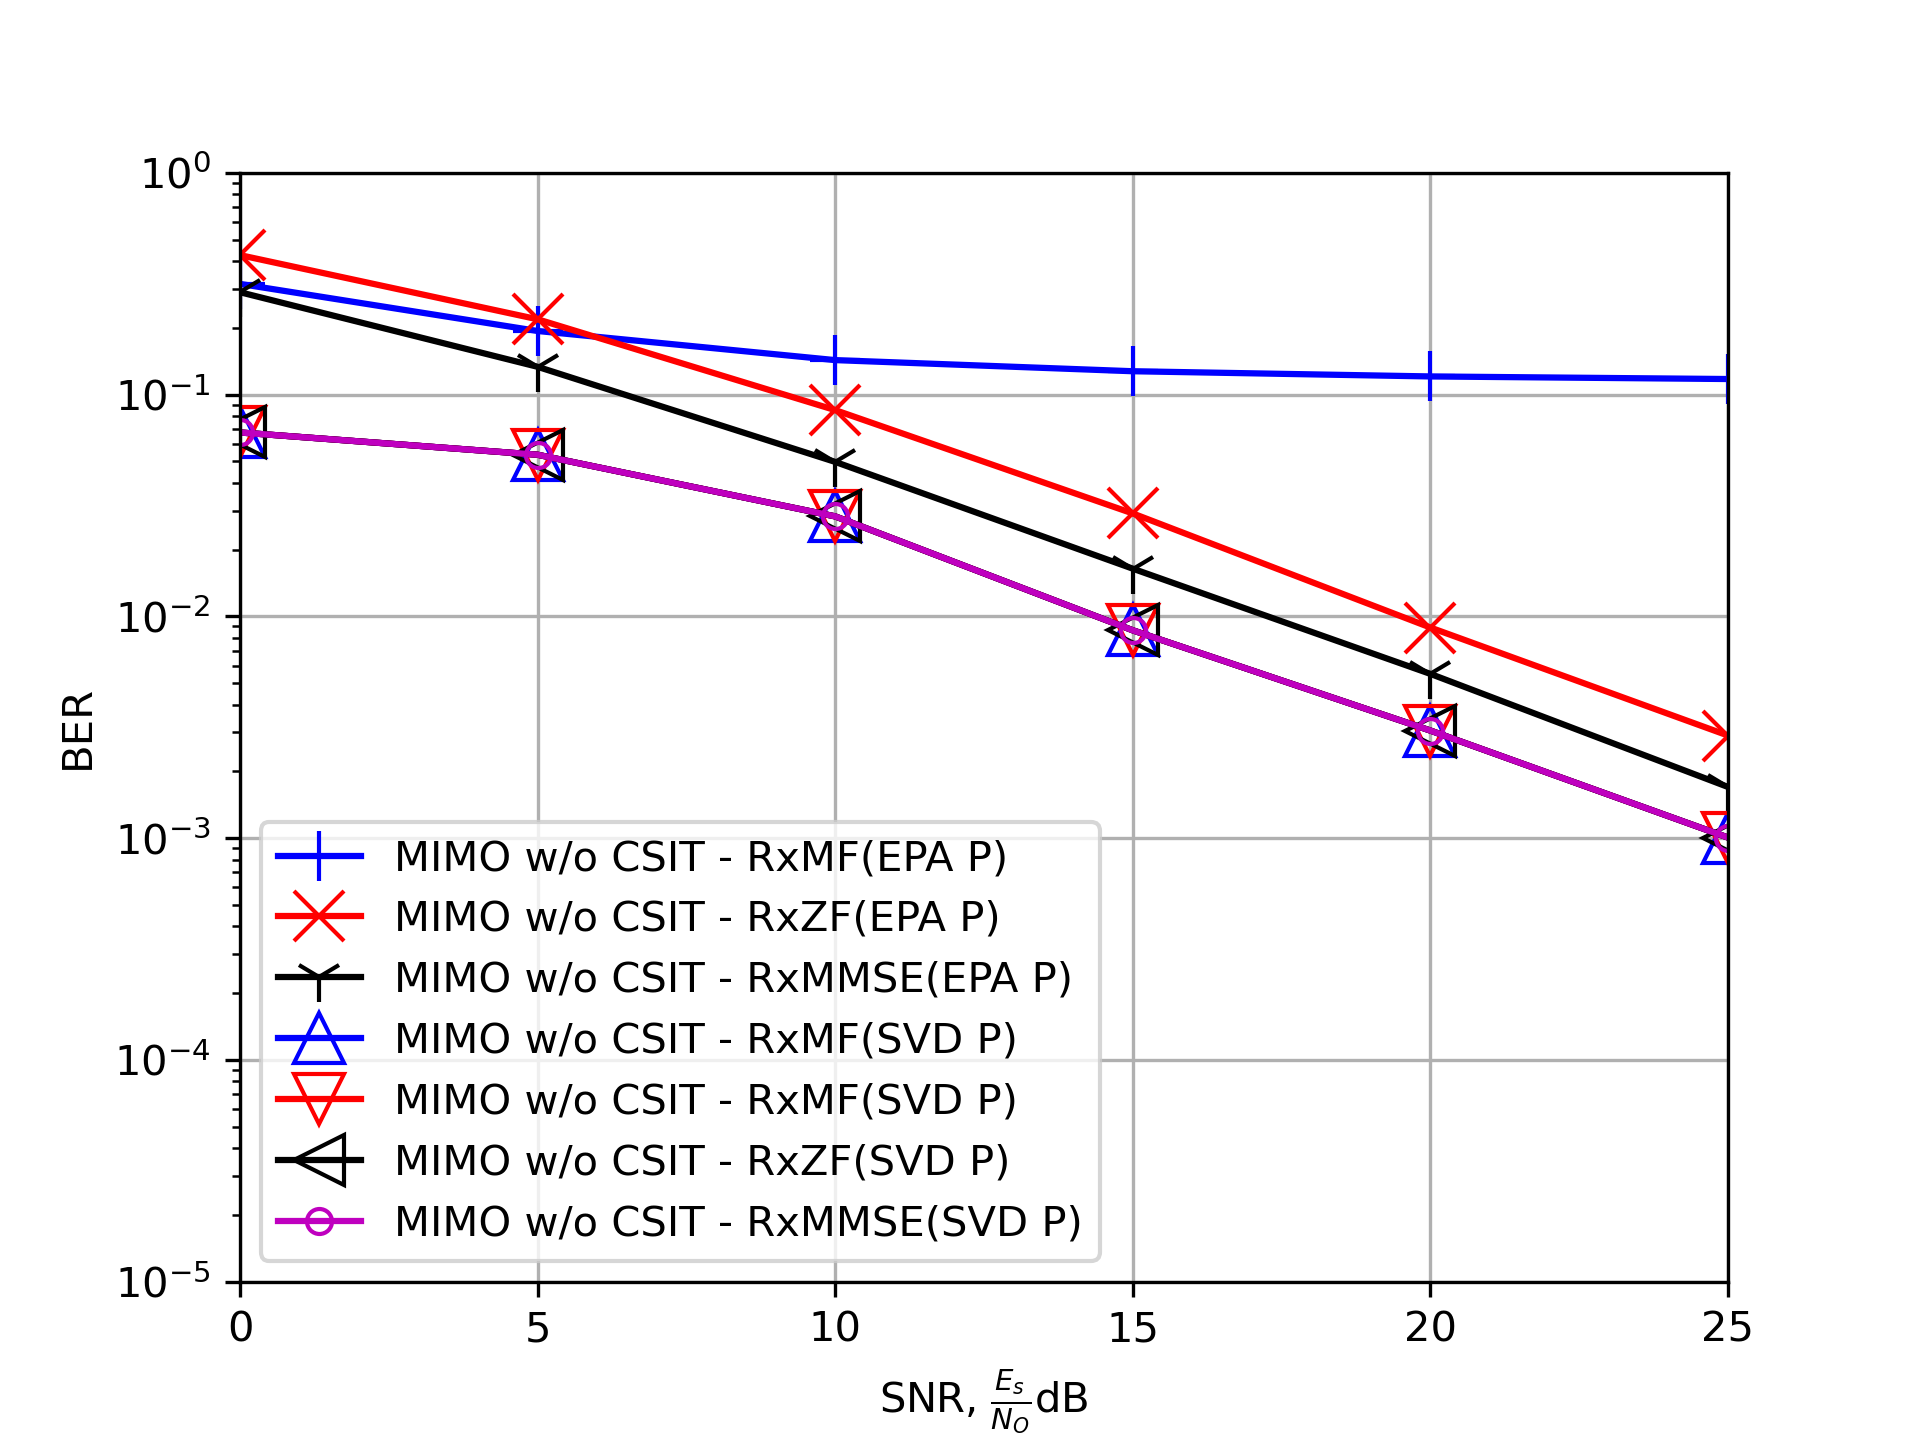
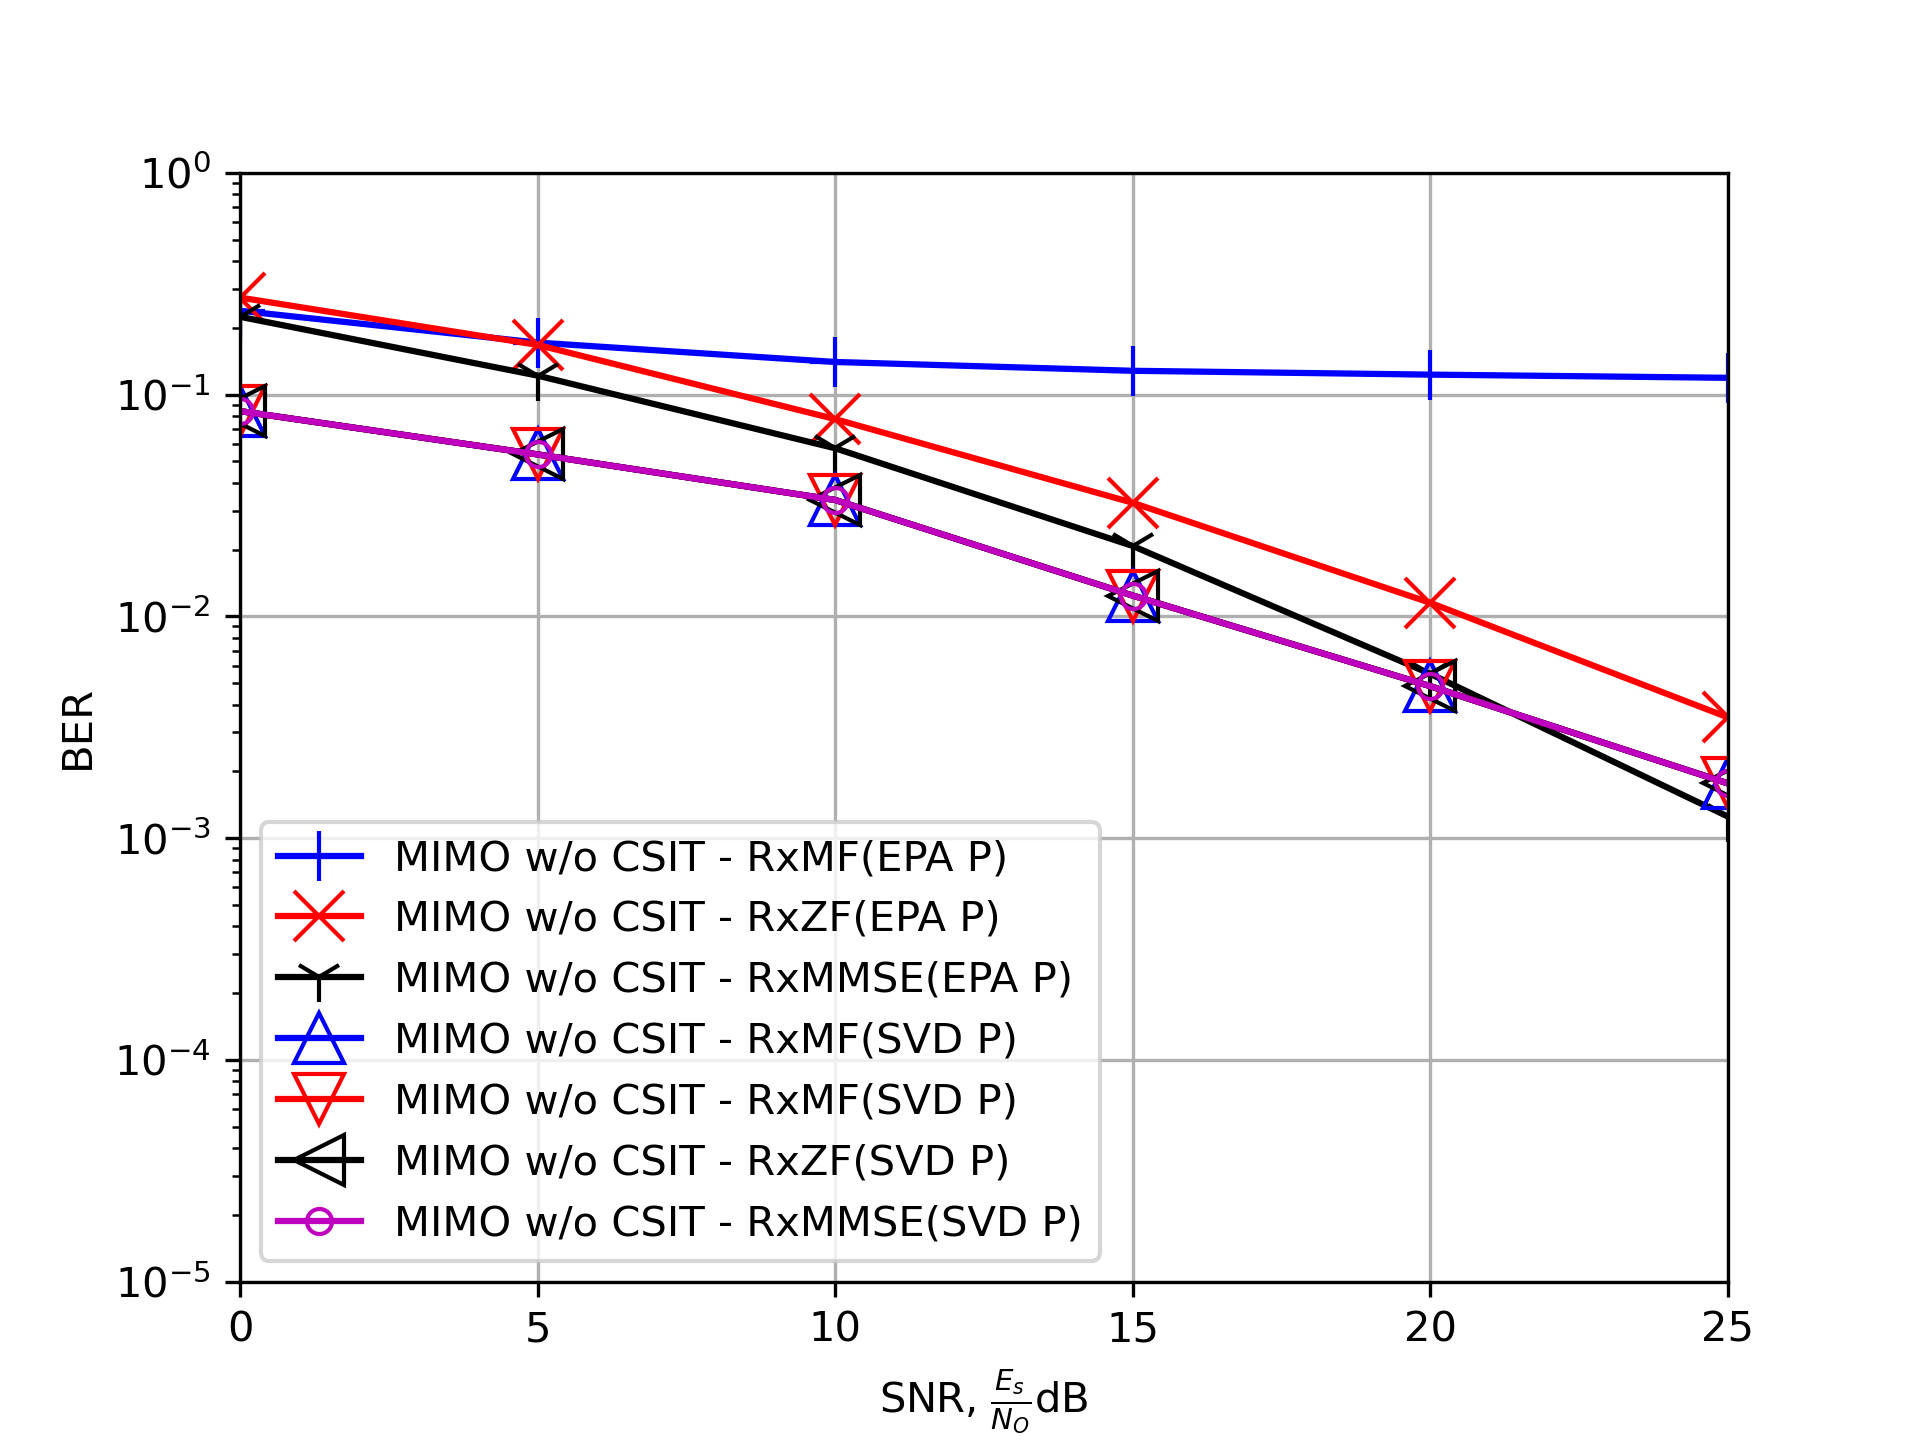
updated

Changed region(s): [[0.125, 0.1562, 0.9062, 0.5938], [0.6875, 0.25, 0.8125, 0.2812], [0.8438, 0.25, 0.875, 0.2812]]

diff --git a/assign_paper_codes/fAlgorithms.py b/assign_paper_codes/fAlgorithms.py
@@ -58,12 +58,25 @@ def myf_algorihtm_1(sys_param, channel):
         #         1 / No_W_unc) * No_W) / (np.abs(h_DW)**2),\
         #                                 P_D_bar
         #                                           ])
-        P_D_ub = np.array([
-              (((np.abs(h_SR)**2 * P_S) / (2**(r_P_bar) - 1) - No_R) * (np.abs(h_DR)**2)),
-          (((np.abs(h_SD)**2 * P_S) / (2**(r_P_bar) - 1) - No_D) / (np.abs(h_DD_tilde)**2)),
-                 ((No_W_unc**(1 - 4 *err_min)-1/No_W_unc)*No_W)/(np.abs(h_DW)**2),
-                                                                                  P_D_bar
-                          ])
+        h_SR_sq_mgn = np.abs(h_SR)**2
+
+        h_DR_sq_mgn = np.abs(h_DR)**2 
+
+        h_SD_sq_mgn = np.abs(h_SD)**2
+
+        h_DD_tilde_sq_mgn = np.abs(h_DD_tilde)
+
+        h_DW_sq_mgn = np.abs(h_DW)**2
+
+        denominator = (2**r_P_bar - 1)
+
+        first_portion = (1/h_DR_sq_mgn) * ((h_SR_sq_mgn * P_S/denominator) - No_R)
+
+        second_portion = (1/h_DD_tilde_sq_mgn) * ((h_SD_sq_mgn * P_S / denominator) - No_D)
+
+        third_portion = (No_W_unc **( 1 - 4 * err_min) - 1/No_W_unc) * (No_W / h_DW_sq_mgn )
+
+        P_D_ub = np.array([first_portion,second_portion,third_portion,P_D_bar])
     
     P_D_opt = max(0,np.amin(P_D_ub))
     

diff --git a/assignment_07/fCalculations.py b/assignment_07/fCalculations.py
@@ -52,7 +52,7 @@ def myf_constellation(sys_param):
 def myf_symbol_indices(sys_param, param_symbol_indices):
 
     Ns = sys_param["Ns"]
-
+    
     constellation_size = sys_param["constellation_size"]
 
     seed_seq = param_symbol_indices["seed_seq"]
@@ -82,7 +82,7 @@ def myf_x_vec(sys_param, constellation,symbol_indices):
 
 
     for ind in range(0,Ns):
-        
+
         x_vec[ind][0] = constellation_symbols[symbol_indices[ind]][0]
 
         
@@ -211,7 +211,7 @@ def myf_C_Pandw(sys_param, channel, P_mat, Ns_opt, solutions):
 
     Nr = sys_param["Nr"]
 
-    NO = sys_param["NO"]\
+    NO = sys_param["NO"]
     
     H_mat = channel["H_mat"]
 
@@ -298,8 +298,6 @@ def myf_Num_errors(sys_param, constellation, solutions, param_Num_errors):
         if(symbol_indices[ind] != symbol_indices_dec[ind]):
 
             Num_errors_symbol = Num_errors_symbol + 1
-
-            Num_errors_bit = Num_errors_bit + 1
 
             Num_errors_bit = Num_errors_bit + np.sum(np.abs(constellation_bits[int(symbol_indices[ind])]\
                             - constellation_bits[int(symbol_indices_dec[ind])]))

diff --git a/assignment_07/Main2.py b/assignment_07/Main2.py
@@ -14,7 +14,8 @@ from fPlot import*
 
 sys_param = myf_sys_param()
 
-Num_samples = 10000
+
+Num_samples = 1000
 
 x_axis_name = "EsoverNO_dB_cand"
 
@@ -32,7 +33,6 @@ Num_algorihtms = 7
 ###constellation symbols and bits (Unit average symbol energy)
 
 constellation = myf_constellation(sys_param)
-
 
 Num_errors_symbol = np.zeros((Num_algorihtms, np.size(x_axis_cand, axis=0)))
 
@@ -280,7 +280,7 @@ for ind1 in range(0,Num_samples):
         Num_symbols_eff_temp[6][ind2] = Ns_opt
 
         Num_bits_eff_temp[6][ind2] = Ns_opt * np.log2(sys_param["constellation_size"])
-
+    
         ##progress##
 
         progress = (ind1*np.size(x_axis_cand, axis=0) + ind2)\
@@ -294,7 +294,7 @@ for ind1 in range(0,Num_samples):
 
             print("...%d %%Done..."%(progress_per*10))
     ##Accumulation
-            
+         
     Num_errors_symbol = Num_errors_symbol + Num_errors_symbol_temp
 
     Num_errors_bit = Num_errors_bit + Num_errors_bit_temp

diff --git a/assign_paper_codes/main.py b/assign_paper_codes/main.py
@@ -13,11 +13,11 @@ from fPlot import *
 
 sys_param = myf_sys_param()
 
-Num_samples = 10000
+Num_samples = 1000
 
 x_axis_name = "No_W_unc_dB_cand" 
 
-# x_axis_name = "P_S_dBm_cand"
+x_axis_name = "P_S_dBm_cand"
 
 if(x_axis_name == "P_S_dBm_cand"):
     x_axis_cand = np.arange(start=0 , stop=55, step=5)
@@ -128,7 +128,7 @@ for ind1 in range(0,Num_samples):
 
         solutions_algorithm_1 = myf_algorihtm_1(sys_param,channel) 
 
-        
+        print(solutions_algorithm_1)
 
         r_C_R_temp[0,ind2] = myf_r_C_R(sys_param,channel,solutions_algorithm_1)
 

diff --git a/assignment_07/fParam.py b/assignment_07/fParam.py
@@ -18,13 +18,13 @@ def myf_sys_param():
 
     sys_param["NO"] = sys_param["Es"]/(sys_param["EsoverNO"])
 
-    sys_param["constellation_type"] = "BPSK"
+    sys_param["constellation_type"] = "QPSK"
 
     if(sys_param["constellation_type"] == "BPSK"):
 
         sys_param["constellation_size"] =2
 
-    elif(sys_param["constellation_size"] == "QPSK"):
+    elif(sys_param["constellation_type"] == "QPSK"):
 
         sys_param["constellation_size"] = 4
 

diff --git a/assignment_07/fChannel.py b/assignment_07/fChannel.py
@@ -19,7 +19,7 @@ def myf_channel(sys_param, param_channel):
 
     rng = np.random.default_rng(seed = seed_seq)
 
-
+    
     channel = {}
 
     #Large-scale pathloss
